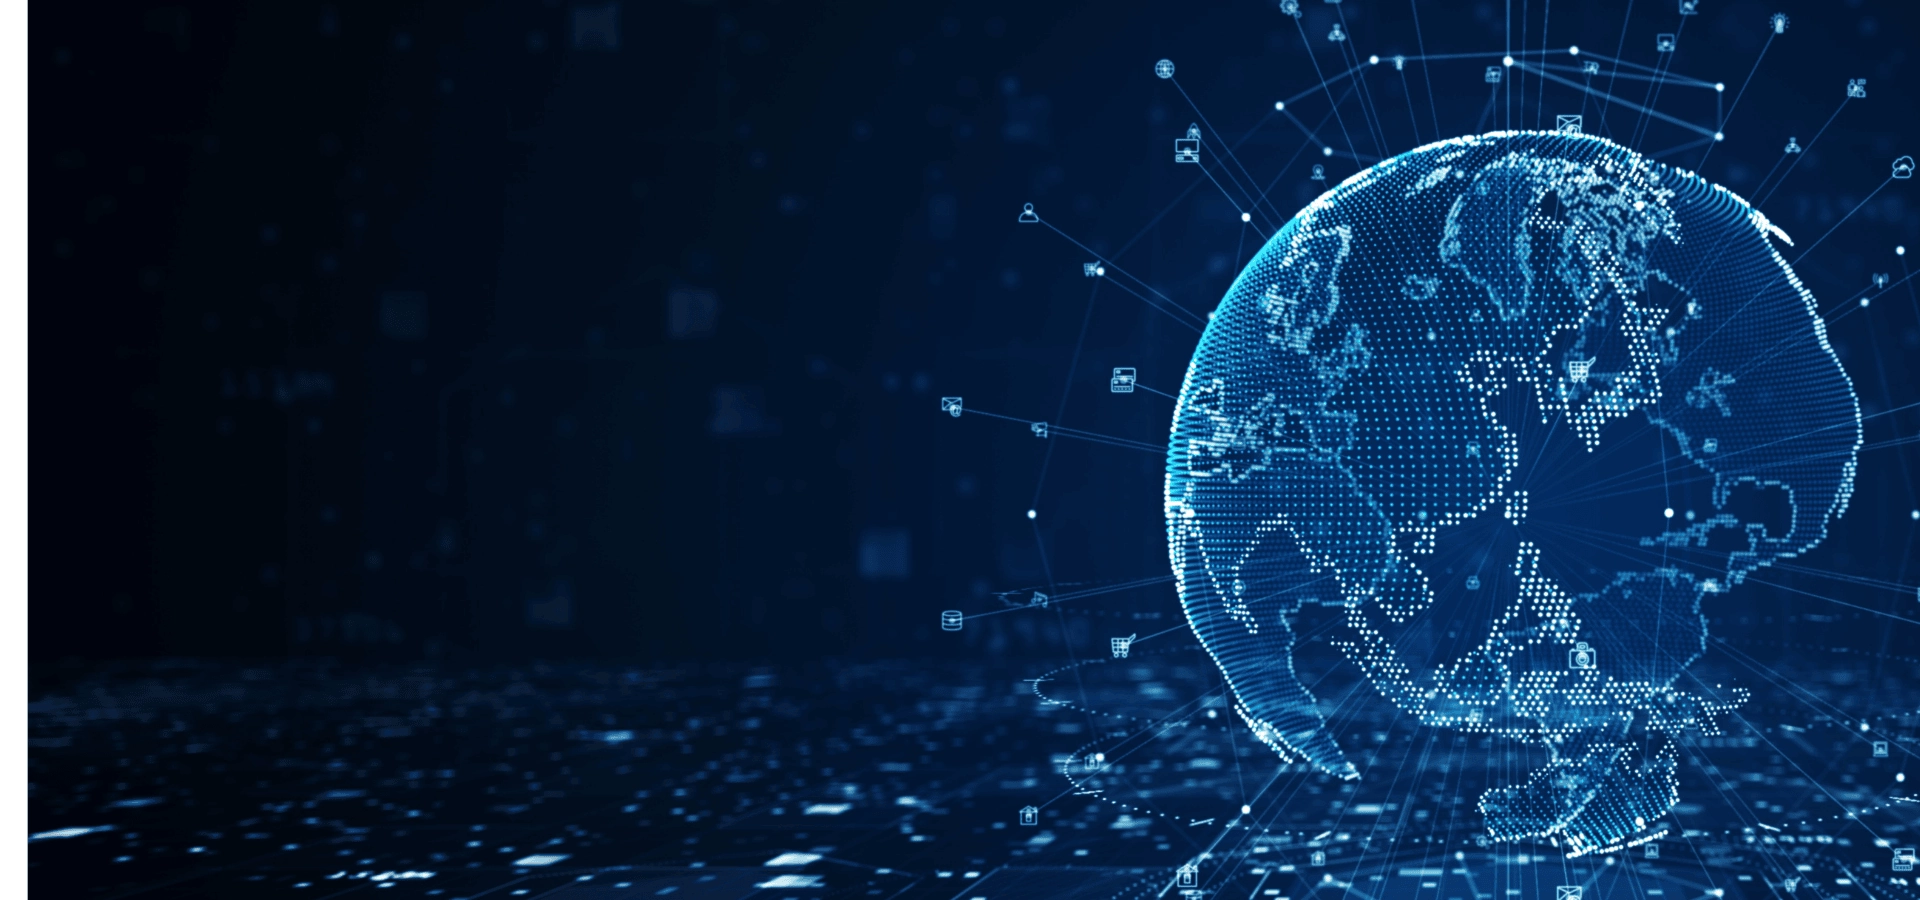
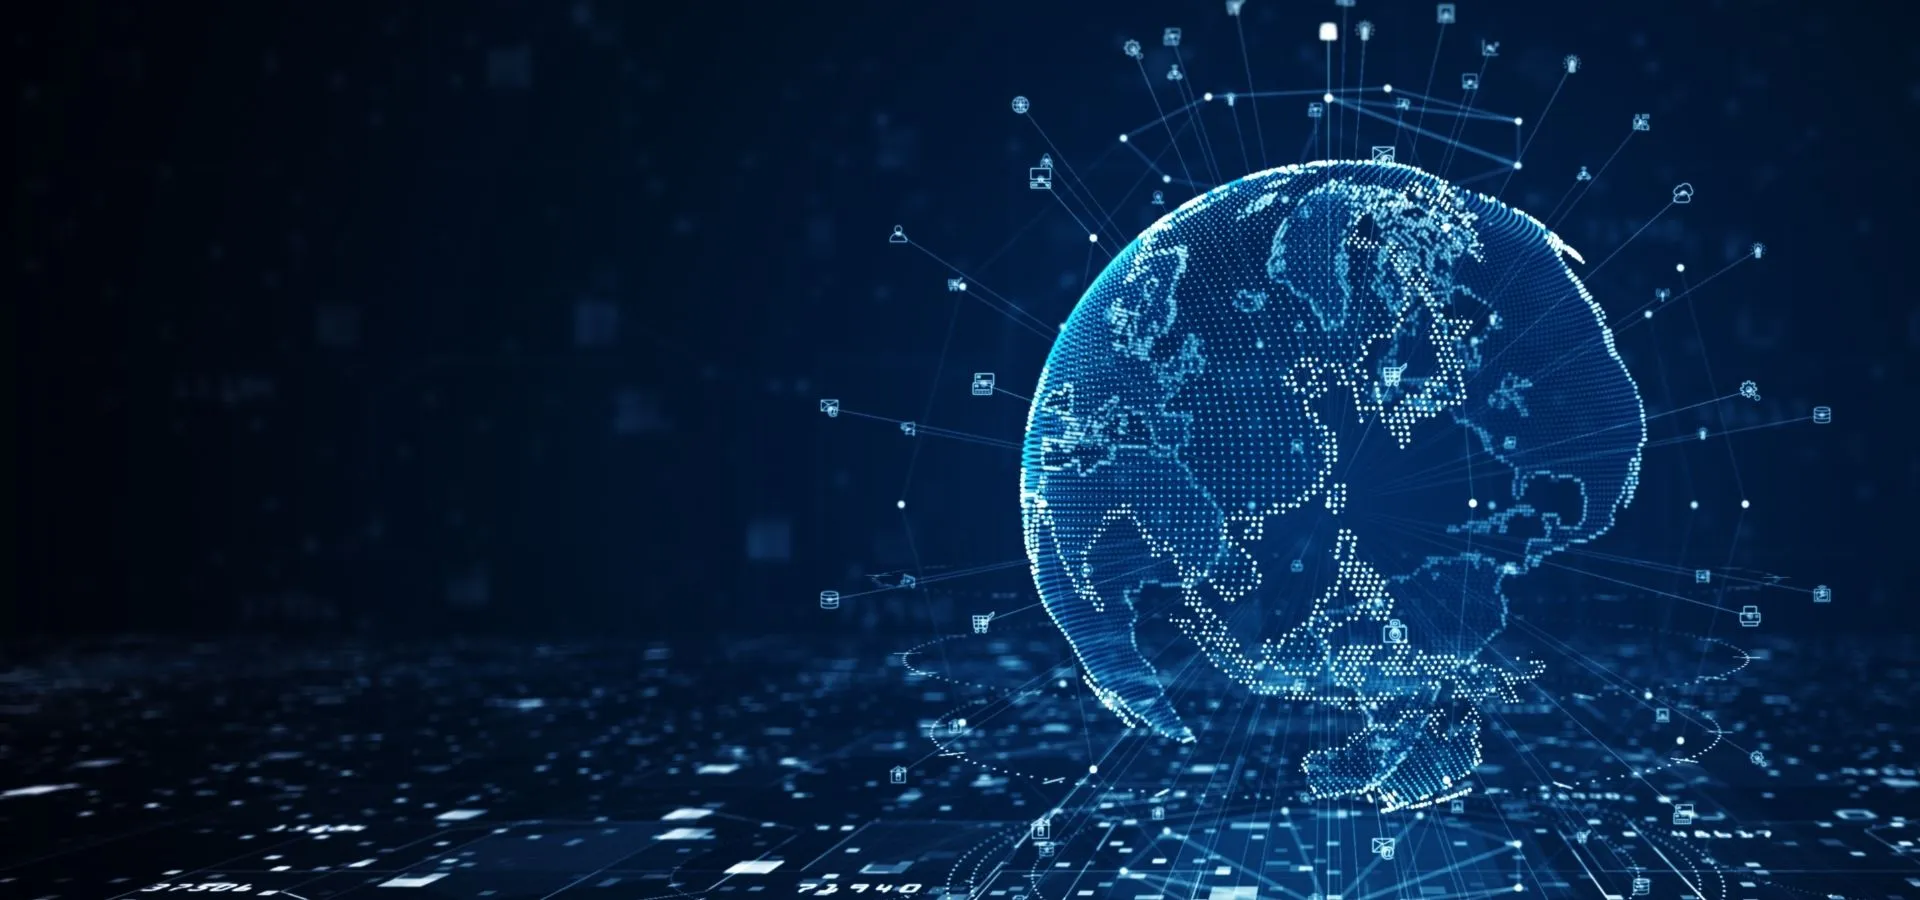
Admin side bar issue

diff --git a/public/assets/services/webDevelopment/css/style.css b/public/assets/services/webDevelopment/css/style.css
@@ -275,18 +275,30 @@ button {
 .webdev-hero .hero-bg {
     position: absolute;
     inset: 0;
-    background-image: radial-gradient(circle at top left, rgba(59, 130, 246, 0.7), transparent 55%),
-                      radial-gradient(circle at bottom right, rgba(14, 165, 233, 0.65), transparent 55%);
-    opacity: 0.6;
+    background-image: url("../../../images/banners/desktop/website-development.webp"); 
+    background-size: cover;
+    background-position: center;
+    opacity: 1;
     z-index: -2;
 }
 
+@media (max-width: 768px){
+  .webdev-hero .hero-bg {
+    position: absolute;
+    inset: 0;
+    background-image: url("../../../images/banners/mobile/website-development.webp"); 
+    background-size: cover;
+    background-position: center;
+    opacity: 1;
+    z-index: -2;
+  }
+}
 .webdev-hero .hero-overlay {
     position: absolute;
     inset: 0;
     background: linear-gradient(135deg, #020617, #0f172a 55%, #020617);
     opacity: 0.96;
-    z-index: -1;
+    z-index: -3;
 }
 
 .hero-content {

diff --git a/public/assets/services/digitalMarketing/css/style.css b/public/assets/services/digitalMarketing/css/style.css
@@ -284,10 +284,22 @@ button {
 .dm-hero .hero-bg {
     position: absolute;
     inset: 0;
-    background-image: radial-gradient(circle at top left, rgba(56, 189, 248, 0.7), transparent 55%),
-                      radial-gradient(circle at bottom right, rgba(244, 114, 182, 0.8), transparent 55%);
-    opacity: 0.5;
+    background-image: url("../../../images/banners/desktop/digital-marketing.webp"); 
+    background-size: cover;
+    background-position: center;
+    opacity: 1;
     z-index: -2;
+}
+@media (max-width: 768px){
+  .dm-hero .hero-bg {
+    position: absolute;
+    inset: 0;
+    background-image: url("../../../images/banners/mobile/digital-marketing.webp"); 
+    background-size: cover;
+    background-position: center;
+    opacity: 1;
+    z-index: -2;
+  }
 }
 
 .dm-hero .hero-overlay {
@@ -295,7 +307,7 @@ button {
     inset: 0;
     background: linear-gradient(135deg, #020617, #0f172a 55%, #020617);
     opacity: 0.96;
-    z-index: -1;
+    z-index: -3;
 }
 
 .hero-content {

diff --git a/public/assets/services/digitalMarketing/smm/css/style.css b/public/assets/services/digitalMarketing/smm/css/style.css
@@ -298,7 +298,7 @@ button {
 .smm-hero .hero-bg {
     position: absolute;
     inset: 0;
-   background-image: url("../../../../images/banners/desktop/ecommerce-seo.webp"); 
+   background-image: url("../../../../images/banners/desktop/smm.webp"); 
     background-size: cover;
     background-position: center;
     opacity: 1;
@@ -309,7 +309,7 @@ button {
 .smm-hero .hero-bg {
     position: absolute;
     inset: 0;
-    background-image: url("../../../../images/banners/mobile/ecommerce-seo.webp"); 
+    background-image: url("../../../../images/banners/mobile/smm.webp"); 
     background-size: cover;
     background-position: center;
     opacity: 1;

diff --git a/public/assets/services/seo/css/style.css b/public/assets/services/seo/css/style.css
@@ -240,10 +240,17 @@ button {
 }
 
 .seo-hero {
-    background: radial-gradient(circle at top, #4b5563, #111827);
+    background-image: url("../../../images/banners/desktop/seo.webp"); 
+    background-size: cover;
+    background-position: center;
     color: #f9fafb;
 }
 
+@media (max-width: 768px){
+  .seo-hero{
+    background-image: url("../../../images/banners/mobile/seo.webp");
+  }
+}
 .hero-inner {
     max-width: 780px;
 }
